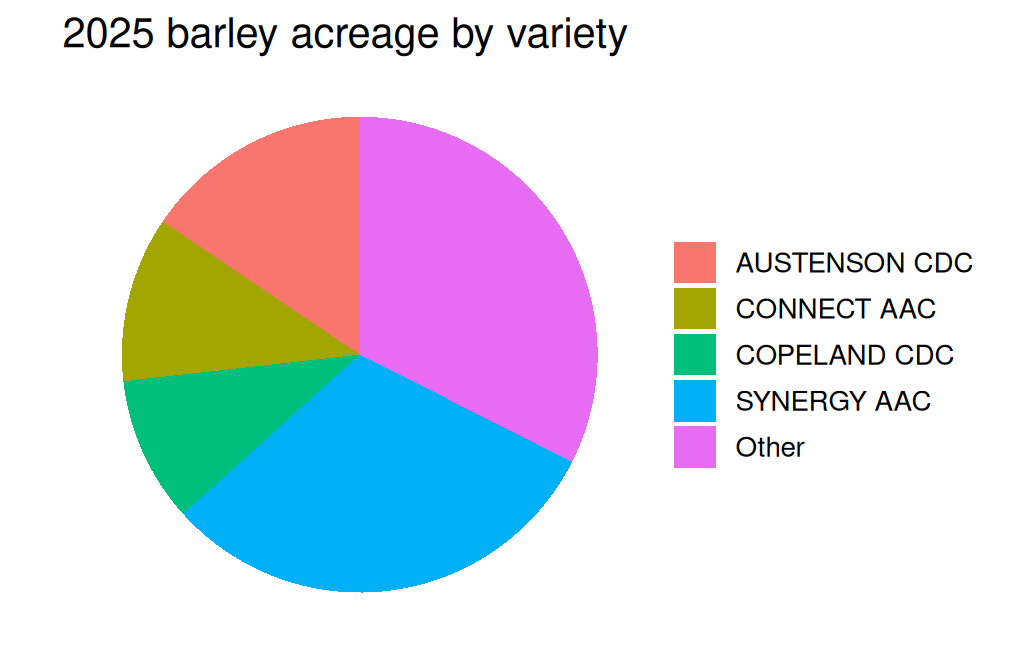
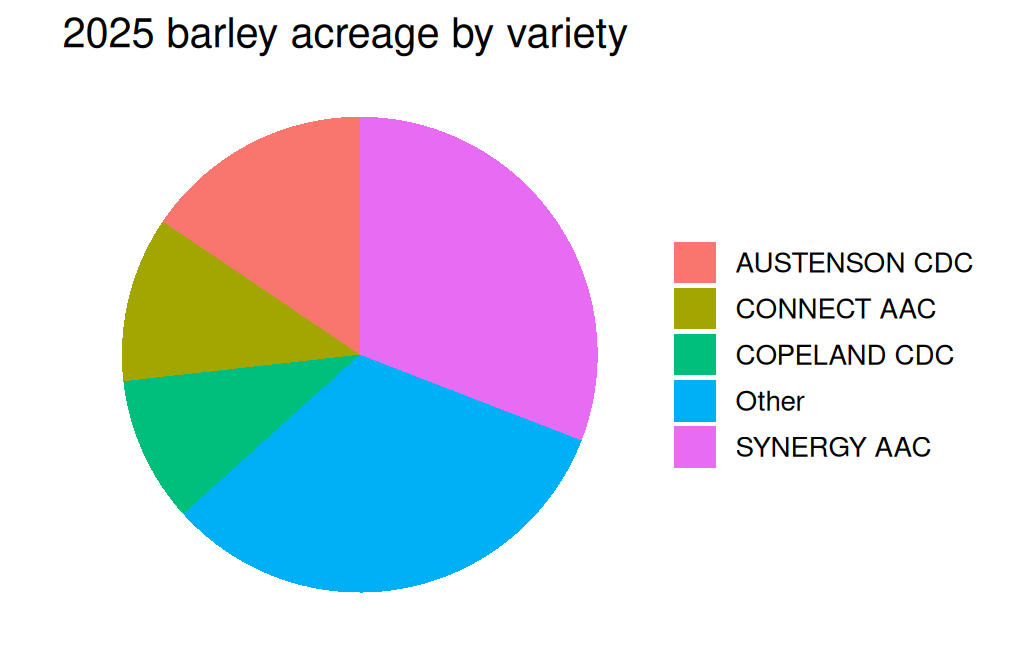
Built site for gh-pages

Changed region(s): [[0.7104, 0.5828, 0.8958, 0.7055], [0.4015, 0.5828, 0.556, 0.7055], [0.3707, 0.5521, 0.4015, 0.5828]]

diff --git a/module04c.html b/module04c.html
@@ -616,7 +616,7 @@ div.csl-indent {
 <li>Build a plot with <code>ggplot()</code>, <code>aes()</code> and a geom.</li>
 <li>Reproduce the Excel bar, pie and line charts in code.</li>
 <li>Filter and summarise the data that feeds a chart, instead of editing it on a sheet.</li>
-<li>Order bars with <code>fct_reorder()</code> and group small categories with <code>fct_lump_n()</code>.</li>
+<li>Order bars with <code>fct_reorder()</code> and group small categories into an “Other” category.</li>
 <li>Change a plot’s title, labels, colours and theme.</li>
 <li>Plot several series by mapping a variable to colour.</li>
 <li>Save a finished plot with <code>ggsave()</code>.</li>
@@ -764,18 +764,44 @@ Figure&nbsp;12.4: The finished bar chart.
 </section>
 <section id="sec-r-pie-example" class="level2" data-number="12.3">
 <h2 data-number="12.3" class="anchored" data-anchor-id="sec-r-pie-example"><span class="header-section-number">12.3</span> Pie charts</h2>
-<p>In Excel we built the pie from a five-row block: the four largest varieties plus an <code>Other</code> row computed with <code>SUM</code>. The R version of that grouping is <code>fct_lump_n()</code>, which keeps the largest <code>n</code> categories, weighted here by acres, and lumps everything else into <code>Other</code>:</p>
+<p>In Excel we built the pie from a five-row block: the four largest varieties plus an <code>Other</code> row computed with <code>SUM</code>. We can build the same five-row table with functions we already know. First the data step: <code>if_else()</code> renames every variety under 100,000 acres to <code>"Other"</code>, and <code>group_by()</code> with <code>summarise()</code> adds the small varieties up – the same job the <code>SUM</code> did in Excel.</p>
 <div class="cell">
-<div class="code-copy-outer-scaffold"><div class="sourceCode cell-code" id="cb7"><pre class="sourceCode r code-with-copy"><code class="sourceCode r"><span id="cb7-1"><a href="#cb7-1" aria-hidden="true" tabindex="-1"></a>barley_2025 <span class="sc">|&gt;</span></span>
-<span id="cb7-2"><a href="#cb7-2" aria-hidden="true" tabindex="-1"></a>  <span class="fu">mutate</span>(<span class="at">variety =</span> <span class="fu">fct_lump_n</span>(variety, <span class="dv">4</span>, <span class="at">w =</span> acres)) <span class="sc">|&gt;</span>   <span class="co"># top 4 + Other</span></span>
-<span id="cb7-3"><a href="#cb7-3" aria-hidden="true" tabindex="-1"></a>  <span class="fu">group_by</span>(variety) <span class="sc">|&gt;</span></span>
-<span id="cb7-4"><a href="#cb7-4" aria-hidden="true" tabindex="-1"></a>  <span class="fu">summarise</span>(<span class="at">acres =</span> <span class="fu">sum</span>(acres)) <span class="sc">|&gt;</span></span>
-<span id="cb7-5"><a href="#cb7-5" aria-hidden="true" tabindex="-1"></a>  <span class="fu">ggplot</span>(<span class="fu">aes</span>(<span class="at">x =</span> <span class="st">""</span>, <span class="at">y =</span> acres, <span class="at">fill =</span> variety)) <span class="sc">+</span></span>
-<span id="cb7-6"><a href="#cb7-6" aria-hidden="true" tabindex="-1"></a>  <span class="fu">geom_col</span>(<span class="at">width =</span> <span class="dv">1</span>) <span class="sc">+</span></span>
-<span id="cb7-7"><a href="#cb7-7" aria-hidden="true" tabindex="-1"></a>  <span class="fu">coord_polar</span>(<span class="at">theta =</span> <span class="st">"y"</span>) <span class="sc">+</span>                               <span class="co"># wrap the bar into a circle</span></span>
-<span id="cb7-8"><a href="#cb7-8" aria-hidden="true" tabindex="-1"></a>  <span class="fu">labs</span>(<span class="at">title =</span> <span class="st">"2025 barley acreage by variety"</span>,</span>
-<span id="cb7-9"><a href="#cb7-9" aria-hidden="true" tabindex="-1"></a>       <span class="at">x =</span> <span class="cn">NULL</span>, <span class="at">y =</span> <span class="cn">NULL</span>, <span class="at">fill =</span> <span class="cn">NULL</span>) <span class="sc">+</span></span>
-<span id="cb7-10"><a href="#cb7-10" aria-hidden="true" tabindex="-1"></a>  <span class="fu">theme_void</span>(<span class="at">base_size =</span> <span class="dv">13</span>)</span></code></pre></div><button title="Copy to Clipboard" class="code-copy-button"><i class="bi"></i></button></div>
+<div class="cell-output-display">
+<div class="code-copy-outer-scaffold"><div class="sourceCode" id="cb7"><pre class="sourceCode r code-with-copy"><code class="sourceCode r"><span id="cb7-1"><a href="#cb7-1" aria-hidden="true" tabindex="-1"></a><span class="co"># Group the small varieties into "Other", then total the acres</span></span>
+<span id="cb7-2"><a href="#cb7-2" aria-hidden="true" tabindex="-1"></a>pie_data <span class="ot">&lt;-</span> barley_2025 <span class="sc">|&gt;</span></span>
+<span id="cb7-3"><a href="#cb7-3" aria-hidden="true" tabindex="-1"></a>  <span class="fu">mutate</span>(<span class="at">variety =</span> <span class="fu">if_else</span>(acres <span class="sc">&gt;</span> <span class="dv">100000</span>, variety, <span class="st">"Other"</span>)) <span class="sc">|&gt;</span></span>
+<span id="cb7-4"><a href="#cb7-4" aria-hidden="true" tabindex="-1"></a>  <span class="fu">group_by</span>(variety) <span class="sc">|&gt;</span></span>
+<span id="cb7-5"><a href="#cb7-5" aria-hidden="true" tabindex="-1"></a>  <span class="fu">summarise</span>(<span class="at">acres =</span> <span class="fu">sum</span>(acres))</span>
+<span id="cb7-6"><a href="#cb7-6" aria-hidden="true" tabindex="-1"></a></span>
+<span id="cb7-7"><a href="#cb7-7" aria-hidden="true" tabindex="-1"></a>pie_data</span></code></pre></div><button title="Copy to Clipboard" class="code-copy-button"><i class="bi"></i></button></div>
+<div class="console-transcript">
+<pre><code>&gt; # Group the small varieties into "Other", then total the acres
+&gt; pie_data &lt;- barley_2025 |&gt;
++   mutate(variety = if_else(acres &gt; 100000, variety, "Other")) |&gt;
++   group_by(variety) |&gt;
++   summarise(acres = sum(acres))
+&gt; 
+&gt; pie_data
+# A tibble: 5 × 2
+  variety        acres
+  &lt;chr&gt;          &lt;dbl&gt;
+1 AUSTENSON CDC 197626
+2 CONNECT AAC   143023
+3 COPELAND CDC  125867
+4 Other         412760
+5 SYNERGY AAC   392684</code></pre>
+</div>
+</div>
+</div>
+<p>Five rows, exactly like the block the Excel pie was built from. Now the plotting step:</p>
+<div class="cell">
+<div class="code-copy-outer-scaffold"><div class="sourceCode cell-code" id="cb9"><pre class="sourceCode r code-with-copy"><code class="sourceCode r"><span id="cb9-1"><a href="#cb9-1" aria-hidden="true" tabindex="-1"></a>pie_data <span class="sc">|&gt;</span></span>
+<span id="cb9-2"><a href="#cb9-2" aria-hidden="true" tabindex="-1"></a>  <span class="fu">ggplot</span>(<span class="fu">aes</span>(<span class="at">x =</span> <span class="st">""</span>, <span class="at">y =</span> acres, <span class="at">fill =</span> variety)) <span class="sc">+</span></span>
+<span id="cb9-3"><a href="#cb9-3" aria-hidden="true" tabindex="-1"></a>  <span class="fu">geom_col</span>(<span class="at">width =</span> <span class="dv">1</span>) <span class="sc">+</span></span>
+<span id="cb9-4"><a href="#cb9-4" aria-hidden="true" tabindex="-1"></a>  <span class="fu">coord_polar</span>(<span class="at">theta =</span> <span class="st">"y"</span>) <span class="sc">+</span>      <span class="co"># wrap the bar into a circle</span></span>
+<span id="cb9-5"><a href="#cb9-5" aria-hidden="true" tabindex="-1"></a>  <span class="fu">labs</span>(<span class="at">title =</span> <span class="st">"2025 barley acreage by variety"</span>,</span>
+<span id="cb9-6"><a href="#cb9-6" aria-hidden="true" tabindex="-1"></a>       <span class="at">x =</span> <span class="cn">NULL</span>, <span class="at">y =</span> <span class="cn">NULL</span>, <span class="at">fill =</span> <span class="cn">NULL</span>) <span class="sc">+</span></span>
+<span id="cb9-7"><a href="#cb9-7" aria-hidden="true" tabindex="-1"></a>  <span class="fu">theme_void</span>(<span class="at">base_size =</span> <span class="dv">13</span>)</span></code></pre></div><button title="Copy to Clipboard" class="code-copy-button"><i class="bi"></i></button></div>
 <div class="cell-output-display">
 <div id="fig-r-pie" class="quarto-float quarto-figure quarto-figure-center anchored" alt="A pie chart with five slices; Other and Synergy AAC are the two largest at roughly 400,000 acres each.">
 <figure class="quarto-float quarto-float-fig figure">
@@ -789,30 +815,30 @@ Figure&nbsp;12.5: 2025 barley acreage: the four largest varieties and everything
 </div>
 </div>
 </div>
-<p>There is no <code>geom_pie()</code>. A pie in ggplot2 is a single stacked bar wrapped into a circle with <code>coord_polar()</code>, which is a fair description of what a pie chart is. The <code>Other</code> slice comes to 412,760 acres, slightly more than Synergy itself – the same total the Excel <code>SUM</code> produced, and a useful reminder that the 28 lumped varieties jointly matter as much as the largest one.</p>
+<p>There is no <code>geom_pie()</code>. A pie in ggplot2 is a single stacked bar wrapped into a circle with <code>coord_polar()</code>, which is a fair description of what a pie chart is. The <code>Other</code> slice comes to 412,760 acres, slightly more than Synergy itself – the same total the Excel <code>SUM</code> produced, and a useful reminder that the 28 grouped varieties jointly matter as much as the largest one.</p>
 </section>
 <section id="sec-r-line-example" class="level2" data-number="12.4">
 <h2 data-number="12.4" class="anchored" data-anchor-id="sec-r-line-example"><span class="header-section-number">12.4</span> Line charts</h2>
 <p>The line charts use the risk-zone file, which has one row per zone-variety-year; we again convert its column names to lowercase on the way in. A provincial line needs one value per year, so the pipe filters to the variety and sums acres within each year before plotting:</p>
 <div class="cell">
-<div class="code-copy-outer-scaffold"><div class="sourceCode cell-code" id="cb8"><pre class="sourceCode r code-with-copy"><code class="sourceCode r"><span id="cb8-1"><a href="#cb8-1" aria-hidden="true" tabindex="-1"></a><span class="co"># Risk-zone records for all crops, varieties and years</span></span>
-<span id="cb8-2"><a href="#cb8-2" aria-hidden="true" tabindex="-1"></a>variety_yields <span class="ot">&lt;-</span> <span class="fu">read_csv</span>(</span>
-<span id="cb8-3"><a href="#cb8-3" aria-hidden="true" tabindex="-1"></a>  <span class="st">"data/sask_variety_yields.csv"</span>,</span>
-<span id="cb8-4"><a href="#cb8-4" aria-hidden="true" tabindex="-1"></a>  <span class="at">show_col_types =</span> <span class="cn">FALSE</span></span>
-<span id="cb8-5"><a href="#cb8-5" aria-hidden="true" tabindex="-1"></a>) <span class="sc">|&gt;</span></span>
-<span id="cb8-6"><a href="#cb8-6" aria-hidden="true" tabindex="-1"></a>  <span class="fu">clean_names</span>()          <span class="co"># column names to lowercase</span></span>
-<span id="cb8-7"><a href="#cb8-7" aria-hidden="true" tabindex="-1"></a></span>
-<span id="cb8-8"><a href="#cb8-8" aria-hidden="true" tabindex="-1"></a>variety_yields <span class="sc">|&gt;</span></span>
-<span id="cb8-9"><a href="#cb8-9" aria-hidden="true" tabindex="-1"></a>  <span class="fu">filter</span>(crop <span class="sc">==</span> <span class="st">"Barley"</span>,</span>
-<span id="cb8-10"><a href="#cb8-10" aria-hidden="true" tabindex="-1"></a>         variety <span class="sc">==</span> <span class="st">"SYNERGY AAC"</span>) <span class="sc">|&gt;</span></span>
-<span id="cb8-11"><a href="#cb8-11" aria-hidden="true" tabindex="-1"></a>  <span class="fu">group_by</span>(year) <span class="sc">|&gt;</span></span>
-<span id="cb8-12"><a href="#cb8-12" aria-hidden="true" tabindex="-1"></a>  <span class="fu">summarise</span>(<span class="at">acres =</span> <span class="fu">sum</span>(acres, <span class="at">na.rm =</span> <span class="cn">TRUE</span>)) <span class="sc">|&gt;</span>   <span class="co"># provincial total per year</span></span>
-<span id="cb8-13"><a href="#cb8-13" aria-hidden="true" tabindex="-1"></a>  <span class="fu">ggplot</span>(<span class="fu">aes</span>(<span class="at">x =</span> year, <span class="at">y =</span> acres)) <span class="sc">+</span></span>
-<span id="cb8-14"><a href="#cb8-14" aria-hidden="true" tabindex="-1"></a>  <span class="fu">geom_line</span>(<span class="at">colour =</span> <span class="st">"#3F6F52"</span>, <span class="at">linewidth =</span> <span class="dv">1</span>) <span class="sc">+</span></span>
-<span id="cb8-15"><a href="#cb8-15" aria-hidden="true" tabindex="-1"></a>  <span class="fu">scale_y_continuous</span>(<span class="at">labels =</span> scales<span class="sc">::</span>comma, <span class="at">limits =</span> <span class="fu">c</span>(<span class="dv">0</span>, <span class="cn">NA</span>)) <span class="sc">+</span></span>
-<span id="cb8-16"><a href="#cb8-16" aria-hidden="true" tabindex="-1"></a>  <span class="fu">labs</span>(<span class="at">title =</span> <span class="st">"Acres planted with Synergy AAC barley"</span>,</span>
-<span id="cb8-17"><a href="#cb8-17" aria-hidden="true" tabindex="-1"></a>       <span class="at">x =</span> <span class="st">"Year"</span>, <span class="at">y =</span> <span class="st">"Total acres"</span>) <span class="sc">+</span></span>
-<span id="cb8-18"><a href="#cb8-18" aria-hidden="true" tabindex="-1"></a>  <span class="fu">theme_minimal</span>(<span class="at">base_size =</span> <span class="dv">13</span>)</span></code></pre></div><button title="Copy to Clipboard" class="code-copy-button"><i class="bi"></i></button></div>
+<div class="code-copy-outer-scaffold"><div class="sourceCode cell-code" id="cb10"><pre class="sourceCode r code-with-copy"><code class="sourceCode r"><span id="cb10-1"><a href="#cb10-1" aria-hidden="true" tabindex="-1"></a><span class="co"># Risk-zone records for all crops, varieties and years</span></span>
+<span id="cb10-2"><a href="#cb10-2" aria-hidden="true" tabindex="-1"></a>variety_yields <span class="ot">&lt;-</span> <span class="fu">read_csv</span>(</span>
+<span id="cb10-3"><a href="#cb10-3" aria-hidden="true" tabindex="-1"></a>  <span class="st">"data/sask_variety_yields.csv"</span>,</span>
+<span id="cb10-4"><a href="#cb10-4" aria-hidden="true" tabindex="-1"></a>  <span class="at">show_col_types =</span> <span class="cn">FALSE</span></span>
+<span id="cb10-5"><a href="#cb10-5" aria-hidden="true" tabindex="-1"></a>) <span class="sc">|&gt;</span></span>
+<span id="cb10-6"><a href="#cb10-6" aria-hidden="true" tabindex="-1"></a>  <span class="fu">clean_names</span>()          <span class="co"># column names to lowercase</span></span>
+<span id="cb10-7"><a href="#cb10-7" aria-hidden="true" tabindex="-1"></a></span>
+<span id="cb10-8"><a href="#cb10-8" aria-hidden="true" tabindex="-1"></a>variety_yields <span class="sc">|&gt;</span></span>
+<span id="cb10-9"><a href="#cb10-9" aria-hidden="true" tabindex="-1"></a>  <span class="fu">filter</span>(crop <span class="sc">==</span> <span class="st">"Barley"</span>,</span>
+<span id="cb10-10"><a href="#cb10-10" aria-hidden="true" tabindex="-1"></a>         variety <span class="sc">==</span> <span class="st">"SYNERGY AAC"</span>) <span class="sc">|&gt;</span></span>
+<span id="cb10-11"><a href="#cb10-11" aria-hidden="true" tabindex="-1"></a>  <span class="fu">group_by</span>(year) <span class="sc">|&gt;</span></span>
+<span id="cb10-12"><a href="#cb10-12" aria-hidden="true" tabindex="-1"></a>  <span class="fu">summarise</span>(<span class="at">acres =</span> <span class="fu">sum</span>(acres, <span class="at">na.rm =</span> <span class="cn">TRUE</span>)) <span class="sc">|&gt;</span>   <span class="co"># provincial total per year</span></span>
+<span id="cb10-13"><a href="#cb10-13" aria-hidden="true" tabindex="-1"></a>  <span class="fu">ggplot</span>(<span class="fu">aes</span>(<span class="at">x =</span> year, <span class="at">y =</span> acres)) <span class="sc">+</span></span>
+<span id="cb10-14"><a href="#cb10-14" aria-hidden="true" tabindex="-1"></a>  <span class="fu">geom_line</span>(<span class="at">colour =</span> <span class="st">"#3F6F52"</span>, <span class="at">linewidth =</span> <span class="dv">1</span>) <span class="sc">+</span></span>
+<span id="cb10-15"><a href="#cb10-15" aria-hidden="true" tabindex="-1"></a>  <span class="fu">scale_y_continuous</span>(<span class="at">labels =</span> scales<span class="sc">::</span>comma, <span class="at">limits =</span> <span class="fu">c</span>(<span class="dv">0</span>, <span class="cn">NA</span>)) <span class="sc">+</span></span>
+<span id="cb10-16"><a href="#cb10-16" aria-hidden="true" tabindex="-1"></a>  <span class="fu">labs</span>(<span class="at">title =</span> <span class="st">"Acres planted with Synergy AAC barley"</span>,</span>
+<span id="cb10-17"><a href="#cb10-17" aria-hidden="true" tabindex="-1"></a>       <span class="at">x =</span> <span class="st">"Year"</span>, <span class="at">y =</span> <span class="st">"Total acres"</span>) <span class="sc">+</span></span>
+<span id="cb10-18"><a href="#cb10-18" aria-hidden="true" tabindex="-1"></a>  <span class="fu">theme_minimal</span>(<span class="at">base_size =</span> <span class="dv">13</span>)</span></code></pre></div><button title="Copy to Clipboard" class="code-copy-button"><i class="bi"></i></button></div>
 <div class="cell-output-display">
 <div id="fig-r-line-synergy" class="quarto-float quarto-figure quarto-figure-center anchored" alt="A line from 408,000 acres in 2021 dipping to 317,000 in 2022 and recovering to about 393,000 by 2025.">
 <figure class="quarto-float quarto-float-fig figure">
@@ -829,17 +855,17 @@ Figure&nbsp;12.6: Acres planted with Synergy barley.
 <p>In Excel the first attempt drew <code>year</code> as a second data series, and fixing it meant a trip through <strong>Select Data</strong>. That mistake cannot happen here, because <code>aes(x = year, y = acres)</code> states which variable is which axis.</p>
 <p>To plot two varieties, Excel needed a column per variety and a new series added by hand. In R the data stays long: keep both varieties in the filter and map <code>variety</code> to colour, and one line is drawn per variety with a legend:</p>
 <div class="cell">
-<div class="code-copy-outer-scaffold"><div class="sourceCode cell-code" id="cb9"><pre class="sourceCode r code-with-copy"><code class="sourceCode r"><span id="cb9-1"><a href="#cb9-1" aria-hidden="true" tabindex="-1"></a>variety_yields <span class="sc">|&gt;</span></span>
-<span id="cb9-2"><a href="#cb9-2" aria-hidden="true" tabindex="-1"></a>  <span class="fu">filter</span>(crop <span class="sc">==</span> <span class="st">"Barley"</span>,</span>
-<span id="cb9-3"><a href="#cb9-3" aria-hidden="true" tabindex="-1"></a>         variety <span class="sc">%in%</span> <span class="fu">c</span>(<span class="st">"SYNERGY AAC"</span>, <span class="st">"COPELAND CDC"</span>)) <span class="sc">|&gt;</span></span>
-<span id="cb9-4"><a href="#cb9-4" aria-hidden="true" tabindex="-1"></a>  <span class="fu">group_by</span>(variety, year) <span class="sc">|&gt;</span></span>
-<span id="cb9-5"><a href="#cb9-5" aria-hidden="true" tabindex="-1"></a>  <span class="fu">summarise</span>(<span class="at">acres =</span> <span class="fu">sum</span>(acres, <span class="at">na.rm =</span> <span class="cn">TRUE</span>), <span class="at">.groups =</span> <span class="st">"drop"</span>) <span class="sc">|&gt;</span></span>
-<span id="cb9-6"><a href="#cb9-6" aria-hidden="true" tabindex="-1"></a>  <span class="fu">ggplot</span>(<span class="fu">aes</span>(<span class="at">x =</span> year, <span class="at">y =</span> acres, <span class="at">colour =</span> variety)) <span class="sc">+</span>   <span class="co"># one line per variety</span></span>
-<span id="cb9-7"><a href="#cb9-7" aria-hidden="true" tabindex="-1"></a>  <span class="fu">geom_line</span>(<span class="at">linewidth =</span> <span class="dv">1</span>) <span class="sc">+</span></span>
-<span id="cb9-8"><a href="#cb9-8" aria-hidden="true" tabindex="-1"></a>  <span class="fu">scale_y_continuous</span>(<span class="at">labels =</span> scales<span class="sc">::</span>comma, <span class="at">limits =</span> <span class="fu">c</span>(<span class="dv">0</span>, <span class="cn">NA</span>)) <span class="sc">+</span></span>
-<span id="cb9-9"><a href="#cb9-9" aria-hidden="true" tabindex="-1"></a>  <span class="fu">labs</span>(<span class="at">title =</span> <span class="st">"Copeland's acreage has fallen by three-quarters; Synergy's has held"</span>,</span>
-<span id="cb9-10"><a href="#cb9-10" aria-hidden="true" tabindex="-1"></a>       <span class="at">x =</span> <span class="st">"Year"</span>, <span class="at">y =</span> <span class="st">"Total acres"</span>, <span class="at">colour =</span> <span class="cn">NULL</span>) <span class="sc">+</span></span>
-<span id="cb9-11"><a href="#cb9-11" aria-hidden="true" tabindex="-1"></a>  <span class="fu">theme_minimal</span>(<span class="at">base_size =</span> <span class="dv">13</span>)</span></code></pre></div><button title="Copy to Clipboard" class="code-copy-button"><i class="bi"></i></button></div>
+<div class="code-copy-outer-scaffold"><div class="sourceCode cell-code" id="cb11"><pre class="sourceCode r code-with-copy"><code class="sourceCode r"><span id="cb11-1"><a href="#cb11-1" aria-hidden="true" tabindex="-1"></a>variety_yields <span class="sc">|&gt;</span></span>
+<span id="cb11-2"><a href="#cb11-2" aria-hidden="true" tabindex="-1"></a>  <span class="fu">filter</span>(crop <span class="sc">==</span> <span class="st">"Barley"</span>,</span>
+<span id="cb11-3"><a href="#cb11-3" aria-hidden="true" tabindex="-1"></a>         variety <span class="sc">%in%</span> <span class="fu">c</span>(<span class="st">"SYNERGY AAC"</span>, <span class="st">"COPELAND CDC"</span>)) <span class="sc">|&gt;</span></span>
+<span id="cb11-4"><a href="#cb11-4" aria-hidden="true" tabindex="-1"></a>  <span class="fu">group_by</span>(variety, year) <span class="sc">|&gt;</span></span>
+<span id="cb11-5"><a href="#cb11-5" aria-hidden="true" tabindex="-1"></a>  <span class="fu">summarise</span>(<span class="at">acres =</span> <span class="fu">sum</span>(acres, <span class="at">na.rm =</span> <span class="cn">TRUE</span>), <span class="at">.groups =</span> <span class="st">"drop"</span>) <span class="sc">|&gt;</span></span>
+<span id="cb11-6"><a href="#cb11-6" aria-hidden="true" tabindex="-1"></a>  <span class="fu">ggplot</span>(<span class="fu">aes</span>(<span class="at">x =</span> year, <span class="at">y =</span> acres, <span class="at">colour =</span> variety)) <span class="sc">+</span>   <span class="co"># one line per variety</span></span>
+<span id="cb11-7"><a href="#cb11-7" aria-hidden="true" tabindex="-1"></a>  <span class="fu">geom_line</span>(<span class="at">linewidth =</span> <span class="dv">1</span>) <span class="sc">+</span></span>
+<span id="cb11-8"><a href="#cb11-8" aria-hidden="true" tabindex="-1"></a>  <span class="fu">scale_y_continuous</span>(<span class="at">labels =</span> scales<span class="sc">::</span>comma, <span class="at">limits =</span> <span class="fu">c</span>(<span class="dv">0</span>, <span class="cn">NA</span>)) <span class="sc">+</span></span>
+<span id="cb11-9"><a href="#cb11-9" aria-hidden="true" tabindex="-1"></a>  <span class="fu">labs</span>(<span class="at">title =</span> <span class="st">"Copeland's acreage has fallen by three-quarters; Synergy's has held"</span>,</span>
+<span id="cb11-10"><a href="#cb11-10" aria-hidden="true" tabindex="-1"></a>       <span class="at">x =</span> <span class="st">"Year"</span>, <span class="at">y =</span> <span class="st">"Total acres"</span>, <span class="at">colour =</span> <span class="cn">NULL</span>) <span class="sc">+</span></span>
+<span id="cb11-11"><a href="#cb11-11" aria-hidden="true" tabindex="-1"></a>  <span class="fu">theme_minimal</span>(<span class="at">base_size =</span> <span class="dv">13</span>)</span></code></pre></div><button title="Copy to Clipboard" class="code-copy-button"><i class="bi"></i></button></div>
 <div class="cell-output-display">
 <div id="fig-r-line-two" class="quarto-float quarto-figure quarto-figure-center anchored" alt="Two lines: Copeland falls from 475,000 acres in 2021 to 126,000 in 2025 while Synergy stays near 400,000.">
 <figure class="quarto-float quarto-float-fig figure">
@@ -853,26 +879,78 @@ Figure&nbsp;12.7: Synergy has held its acreage; Copeland has lost most of its ow
 </div>
 </div>
 </div>
-<p>The Excel chapter’s answer to “what about all the varieties?” was a PivotChart, with the small varieties filtered out or grouped. The R answer is the same <code>fct_lump_n()</code> used for the pie: summarise acres by variety and year, keep the seven biggest varieties, and lump the rest into <code>Other</code>:</p>
+<p>The Excel chapter’s answer to “what about all the varieties?” was a PivotChart, with the small varieties filtered out or grouped. We can do the same grouping here, in a data step and a plotting step. The data step builds the variety-year totals, works out which varieties have more than 150,000 acres over the five years – the same threshold we used in the PivotChart filter – and renames the rest to <code>"Other"</code>:</p>
 <div class="cell">
-<div class="code-copy-outer-scaffold"><div class="sourceCode cell-code" id="cb10"><pre class="sourceCode r code-with-copy"><code class="sourceCode r"><span id="cb10-1"><a href="#cb10-1" aria-hidden="true" tabindex="-1"></a>variety_yields <span class="sc">|&gt;</span></span>
-<span id="cb10-2"><a href="#cb10-2" aria-hidden="true" tabindex="-1"></a>  <span class="fu">filter</span>(crop <span class="sc">==</span> <span class="st">"Barley"</span>) <span class="sc">|&gt;</span></span>
-<span id="cb10-3"><a href="#cb10-3" aria-hidden="true" tabindex="-1"></a>  <span class="fu">group_by</span>(variety, year) <span class="sc">|&gt;</span></span>
-<span id="cb10-4"><a href="#cb10-4" aria-hidden="true" tabindex="-1"></a>  <span class="fu">summarise</span>(<span class="at">acres =</span> <span class="fu">sum</span>(acres, <span class="at">na.rm =</span> <span class="cn">TRUE</span>), <span class="at">.groups =</span> <span class="st">"drop"</span>) <span class="sc">|&gt;</span></span>
-<span id="cb10-5"><a href="#cb10-5" aria-hidden="true" tabindex="-1"></a>  <span class="fu">mutate</span>(<span class="at">variety =</span> <span class="fu">fct_lump_n</span>(variety, <span class="dv">7</span>, <span class="at">w =</span> acres)) <span class="sc">|&gt;</span>   <span class="co"># 7 biggest + Other</span></span>
-<span id="cb10-6"><a href="#cb10-6" aria-hidden="true" tabindex="-1"></a>  <span class="fu">group_by</span>(variety, year) <span class="sc">|&gt;</span></span>
-<span id="cb10-7"><a href="#cb10-7" aria-hidden="true" tabindex="-1"></a>  <span class="fu">summarise</span>(<span class="at">acres =</span> <span class="fu">sum</span>(acres), <span class="at">.groups =</span> <span class="st">"drop"</span>) <span class="sc">|&gt;</span></span>
-<span id="cb10-8"><a href="#cb10-8" aria-hidden="true" tabindex="-1"></a>  <span class="fu">ggplot</span>(<span class="fu">aes</span>(<span class="at">x =</span> year, <span class="at">y =</span> acres, <span class="at">colour =</span> variety)) <span class="sc">+</span></span>
-<span id="cb10-9"><a href="#cb10-9" aria-hidden="true" tabindex="-1"></a>  <span class="fu">geom_line</span>(<span class="at">linewidth =</span> <span class="fl">0.9</span>) <span class="sc">+</span></span>
-<span id="cb10-10"><a href="#cb10-10" aria-hidden="true" tabindex="-1"></a>  <span class="fu">scale_y_continuous</span>(<span class="at">labels =</span> scales<span class="sc">::</span>comma, <span class="at">limits =</span> <span class="fu">c</span>(<span class="dv">0</span>, <span class="cn">NA</span>)) <span class="sc">+</span></span>
-<span id="cb10-11"><a href="#cb10-11" aria-hidden="true" tabindex="-1"></a>  <span class="fu">labs</span>(<span class="at">title =</span> <span class="st">"Acres of barley varieties in Saskatchewan"</span>,</span>
-<span id="cb10-12"><a href="#cb10-12" aria-hidden="true" tabindex="-1"></a>       <span class="at">x =</span> <span class="st">"Year"</span>, <span class="at">y =</span> <span class="st">"Total acres"</span>, <span class="at">colour =</span> <span class="cn">NULL</span>) <span class="sc">+</span></span>
-<span id="cb10-13"><a href="#cb10-13" aria-hidden="true" tabindex="-1"></a>  <span class="fu">theme_minimal</span>(<span class="at">base_size =</span> <span class="dv">13</span>)</span></code></pre></div><button title="Copy to Clipboard" class="code-copy-button"><i class="bi"></i></button></div>
 <div class="cell-output-display">
-<div id="fig-r-line-many" class="quarto-float quarto-figure quarto-figure-center anchored" alt="Eight lines showing Copeland declining, Synergy and Austenson roughly steady, and an Other line near 300,000 acres.">
+<div class="code-copy-outer-scaffold"><div class="sourceCode" id="cb12"><pre class="sourceCode r code-with-copy"><code class="sourceCode r"><span id="cb12-1"><a href="#cb12-1" aria-hidden="true" tabindex="-1"></a><span class="co"># Total acres for each variety and year</span></span>
+<span id="cb12-2"><a href="#cb12-2" aria-hidden="true" tabindex="-1"></a>barley_by_year <span class="ot">&lt;-</span> variety_yields <span class="sc">|&gt;</span></span>
+<span id="cb12-3"><a href="#cb12-3" aria-hidden="true" tabindex="-1"></a>  <span class="fu">filter</span>(crop <span class="sc">==</span> <span class="st">"Barley"</span>) <span class="sc">|&gt;</span></span>
+<span id="cb12-4"><a href="#cb12-4" aria-hidden="true" tabindex="-1"></a>  <span class="fu">group_by</span>(variety, year) <span class="sc">|&gt;</span></span>
+<span id="cb12-5"><a href="#cb12-5" aria-hidden="true" tabindex="-1"></a>  <span class="fu">summarise</span>(<span class="at">acres =</span> <span class="fu">sum</span>(acres, <span class="at">na.rm =</span> <span class="cn">TRUE</span>), <span class="at">.groups =</span> <span class="st">"drop"</span>)</span>
+<span id="cb12-6"><a href="#cb12-6" aria-hidden="true" tabindex="-1"></a></span>
+<span id="cb12-7"><a href="#cb12-7" aria-hidden="true" tabindex="-1"></a><span class="co"># Which varieties have more than 150,000 acres over the five years?</span></span>
+<span id="cb12-8"><a href="#cb12-8" aria-hidden="true" tabindex="-1"></a>big_varieties <span class="ot">&lt;-</span> barley_by_year <span class="sc">|&gt;</span></span>
+<span id="cb12-9"><a href="#cb12-9" aria-hidden="true" tabindex="-1"></a>  <span class="fu">group_by</span>(variety) <span class="sc">|&gt;</span></span>
+<span id="cb12-10"><a href="#cb12-10" aria-hidden="true" tabindex="-1"></a>  <span class="fu">summarise</span>(<span class="at">total_acres =</span> <span class="fu">sum</span>(acres)) <span class="sc">|&gt;</span></span>
+<span id="cb12-11"><a href="#cb12-11" aria-hidden="true" tabindex="-1"></a>  <span class="fu">filter</span>(total_acres <span class="sc">&gt;</span> <span class="dv">150000</span>)</span>
+<span id="cb12-12"><a href="#cb12-12" aria-hidden="true" tabindex="-1"></a></span>
+<span id="cb12-13"><a href="#cb12-13" aria-hidden="true" tabindex="-1"></a>big_varieties</span>
+<span id="cb12-14"><a href="#cb12-14" aria-hidden="true" tabindex="-1"></a></span>
+<span id="cb12-15"><a href="#cb12-15" aria-hidden="true" tabindex="-1"></a><span class="co"># Group everything else into "Other" and re-total</span></span>
+<span id="cb12-16"><a href="#cb12-16" aria-hidden="true" tabindex="-1"></a>main_varieties <span class="ot">&lt;-</span> barley_by_year <span class="sc">|&gt;</span></span>
+<span id="cb12-17"><a href="#cb12-17" aria-hidden="true" tabindex="-1"></a>  <span class="fu">mutate</span>(<span class="at">variety =</span> <span class="fu">if_else</span>(variety <span class="sc">%in%</span> big_varieties<span class="sc">$</span>variety,</span>
+<span id="cb12-18"><a href="#cb12-18" aria-hidden="true" tabindex="-1"></a>                           variety, <span class="st">"Other"</span>)) <span class="sc">|&gt;</span></span>
+<span id="cb12-19"><a href="#cb12-19" aria-hidden="true" tabindex="-1"></a>  <span class="fu">group_by</span>(variety, year) <span class="sc">|&gt;</span></span>
+<span id="cb12-20"><a href="#cb12-20" aria-hidden="true" tabindex="-1"></a>  <span class="fu">summarise</span>(<span class="at">acres =</span> <span class="fu">sum</span>(acres), <span class="at">.groups =</span> <span class="st">"drop"</span>)</span></code></pre></div><button title="Copy to Clipboard" class="code-copy-button"><i class="bi"></i></button></div>
+<div class="console-transcript">
+<pre><code>&gt; # Total acres for each variety and year
+&gt; barley_by_year &lt;- variety_yields |&gt;
++   filter(crop == "Barley") |&gt;
++   group_by(variety, year) |&gt;
++   summarise(acres = sum(acres, na.rm = TRUE), .groups = "drop")
+&gt; 
+&gt; # Which varieties have more than 150,000 acres over the five years?
+&gt; big_varieties &lt;- barley_by_year |&gt;
++   group_by(variety) |&gt;
++   summarise(total_acres = sum(acres)) |&gt;
++   filter(total_acres &gt; 150000)
+&gt; 
+&gt; big_varieties
+# A tibble: 8 × 2
+  variety       total_acres
+  &lt;chr&gt;               &lt;dbl&gt;
+1 AUSTENSON CDC     1513916
+2 CHURCHILL CDC      156341
+3 CLAYMORE           208024
+4 CONNECT AAC        621765
+5 COPELAND CDC      1411073
+6 FRASER CDC         377996
+7 MAVERICK CDC       260246
+8 SYNERGY AAC       1945350
+&gt; 
+&gt; # Group everything else into "Other" and re-total
+&gt; main_varieties &lt;- barley_by_year |&gt;
++   mutate(variety = if_else(variety %in% big_varieties$variety,
++                            variety, "Other")) |&gt;
++   group_by(variety, year) |&gt;
++   summarise(acres = sum(acres), .groups = "drop")</code></pre>
+</div>
+</div>
+</div>
+<p>Then the plotting step is the same line chart as before, with <code>variety</code> mapped to colour:</p>
+<div class="cell">
+<div class="code-copy-outer-scaffold"><div class="sourceCode cell-code" id="cb14"><pre class="sourceCode r code-with-copy"><code class="sourceCode r"><span id="cb14-1"><a href="#cb14-1" aria-hidden="true" tabindex="-1"></a>main_varieties <span class="sc">|&gt;</span></span>
+<span id="cb14-2"><a href="#cb14-2" aria-hidden="true" tabindex="-1"></a>  <span class="fu">ggplot</span>(<span class="fu">aes</span>(<span class="at">x =</span> year, <span class="at">y =</span> acres, <span class="at">colour =</span> variety)) <span class="sc">+</span></span>
+<span id="cb14-3"><a href="#cb14-3" aria-hidden="true" tabindex="-1"></a>  <span class="fu">geom_line</span>(<span class="at">linewidth =</span> <span class="fl">0.9</span>) <span class="sc">+</span></span>
+<span id="cb14-4"><a href="#cb14-4" aria-hidden="true" tabindex="-1"></a>  <span class="fu">scale_y_continuous</span>(<span class="at">labels =</span> scales<span class="sc">::</span>comma, <span class="at">limits =</span> <span class="fu">c</span>(<span class="dv">0</span>, <span class="cn">NA</span>)) <span class="sc">+</span></span>
+<span id="cb14-5"><a href="#cb14-5" aria-hidden="true" tabindex="-1"></a>  <span class="fu">labs</span>(<span class="at">title =</span> <span class="st">"Acres of barley varieties in Saskatchewan"</span>,</span>
+<span id="cb14-6"><a href="#cb14-6" aria-hidden="true" tabindex="-1"></a>       <span class="at">x =</span> <span class="st">"Year"</span>, <span class="at">y =</span> <span class="st">"Total acres"</span>, <span class="at">colour =</span> <span class="cn">NULL</span>) <span class="sc">+</span></span>
+<span id="cb14-7"><a href="#cb14-7" aria-hidden="true" tabindex="-1"></a>  <span class="fu">theme_minimal</span>(<span class="at">base_size =</span> <span class="dv">13</span>)</span></code></pre></div><button title="Copy to Clipboard" class="code-copy-button"><i class="bi"></i></button></div>
+<div class="cell-output-display">
+<div id="fig-r-line-many" class="quarto-float quarto-figure quarto-figure-center anchored" alt="Nine lines showing Copeland declining, Synergy and Austenson roughly steady, and an Other line near 300,000 acres.">
 <figure class="quarto-float quarto-float-fig figure">
 <div aria-describedby="fig-r-line-many-caption-0ceaefa1-69ba-4598-a22c-09a6ac19f8ca">
-<a href="module04c_files/figure-html/fig-r-line-many-1.png" class="lightbox" data-gallery="quarto-lightbox-gallery-8" title="Figure&nbsp;12.8: Acres of the main barley varieties, 2021 to 2025."><img src="module04c_files/figure-html/fig-r-line-many-1.png" class="img-fluid figure-img" alt="Eight lines showing Copeland declining, Synergy and Austenson roughly steady, and an Other line near 300,000 acres." width="633"></a>
+<a href="module04c_files/figure-html/fig-r-line-many-1.png" class="lightbox" data-gallery="quarto-lightbox-gallery-8" title="Figure&nbsp;12.8: Acres of the main barley varieties, 2021 to 2025."><img src="module04c_files/figure-html/fig-r-line-many-1.png" class="img-fluid figure-img" alt="Nine lines showing Copeland declining, Synergy and Austenson roughly steady, and an Other line near 300,000 acres." width="633"></a>
 </div>
 <figcaption class="quarto-float-caption-bottom quarto-float-caption quarto-float-fig" id="fig-r-line-many-caption-0ceaefa1-69ba-4598-a22c-09a6ac19f8ca">
 Figure&nbsp;12.8: Acres of the main barley varieties, 2021 to 2025.
@@ -881,27 +959,27 @@ Figure&nbsp;12.8: Acres of the main barley varieties, 2021 to 2025.
 </div>
 </div>
 </div>
-<p>Eight lines is about the limit for one chart, and with lines this distinct the legend works; <a href="module04a.html" class="quarto-xref"><span>Chapter 10</span></a> covers direct labels and other ways to keep a many-line chart readable.</p>
+<p>Nine lines is about the limit for one chart, and with lines this distinct the legend works; <a href="module04a.html" class="quarto-xref"><span>Chapter 10</span></a> covers direct labels and other ways to keep a many-line chart readable.</p>
 </section>
 <section id="sec-saving-plots" class="level2" data-number="12.5">
 <h2 data-number="12.5" class="anchored" data-anchor-id="sec-saving-plots"><span class="header-section-number">12.5</span> Save the finished chart</h2>
 <p>Assigning a plot to a name makes the object passed to <code>ggsave()</code> explicit. Width and height are in inches unless another unit is supplied.</p>
 <div class="cell">
 <div class="cell-output-display">
-<div class="code-copy-outer-scaffold"><div class="sourceCode" id="cb11"><pre class="sourceCode r code-with-copy"><code class="sourceCode r"><span id="cb11-1"><a href="#cb11-1" aria-hidden="true" tabindex="-1"></a><span class="co"># Create the output folder if needed</span></span>
-<span id="cb11-2"><a href="#cb11-2" aria-hidden="true" tabindex="-1"></a><span class="fu">dir.create</span>(<span class="st">"output"</span>, <span class="at">showWarnings =</span> <span class="cn">FALSE</span>)</span>
-<span id="cb11-3"><a href="#cb11-3" aria-hidden="true" tabindex="-1"></a></span>
-<span id="cb11-4"><a href="#cb11-4" aria-hidden="true" tabindex="-1"></a><span class="co"># Save the finished bar chart</span></span>
-<span id="cb11-5"><a href="#cb11-5" aria-hidden="true" tabindex="-1"></a><span class="fu">ggsave</span>(</span>
-<span id="cb11-6"><a href="#cb11-6" aria-hidden="true" tabindex="-1"></a>  <span class="st">"output/barley_variety_bar.png"</span>,</span>
-<span id="cb11-7"><a href="#cb11-7" aria-hidden="true" tabindex="-1"></a>  <span class="at">plot =</span> bar_plot,</span>
-<span id="cb11-8"><a href="#cb11-8" aria-hidden="true" tabindex="-1"></a>  <span class="at">width =</span> <span class="fl">6.4</span>,</span>
-<span id="cb11-9"><a href="#cb11-9" aria-hidden="true" tabindex="-1"></a>  <span class="at">height =</span> <span class="fl">4.0</span>,</span>
-<span id="cb11-10"><a href="#cb11-10" aria-hidden="true" tabindex="-1"></a>  <span class="at">dpi =</span> <span class="dv">300</span></span>
-<span id="cb11-11"><a href="#cb11-11" aria-hidden="true" tabindex="-1"></a>)</span>
-<span id="cb11-12"><a href="#cb11-12" aria-hidden="true" tabindex="-1"></a></span>
-<span id="cb11-13"><a href="#cb11-13" aria-hidden="true" tabindex="-1"></a><span class="co"># Confirm that the file was written</span></span>
-<span id="cb11-14"><a href="#cb11-14" aria-hidden="true" tabindex="-1"></a><span class="fu">file.info</span>(<span class="st">"output/barley_variety_bar.png"</span>)[<span class="st">"size"</span>]</span></code></pre></div><button title="Copy to Clipboard" class="code-copy-button"><i class="bi"></i></button></div>
+<div class="code-copy-outer-scaffold"><div class="sourceCode" id="cb15"><pre class="sourceCode r code-with-copy"><code class="sourceCode r"><span id="cb15-1"><a href="#cb15-1" aria-hidden="true" tabindex="-1"></a><span class="co"># Create the output folder if needed</span></span>
+<span id="cb15-2"><a href="#cb15-2" aria-hidden="true" tabindex="-1"></a><span class="fu">dir.create</span>(<span class="st">"output"</span>, <span class="at">showWarnings =</span> <span class="cn">FALSE</span>)</span>
+<span id="cb15-3"><a href="#cb15-3" aria-hidden="true" tabindex="-1"></a></span>
+<span id="cb15-4"><a href="#cb15-4" aria-hidden="true" tabindex="-1"></a><span class="co"># Save the finished bar chart</span></span>
+<span id="cb15-5"><a href="#cb15-5" aria-hidden="true" tabindex="-1"></a><span class="fu">ggsave</span>(</span>
+<span id="cb15-6"><a href="#cb15-6" aria-hidden="true" tabindex="-1"></a>  <span class="st">"output/barley_variety_bar.png"</span>,</span>
+<span id="cb15-7"><a href="#cb15-7" aria-hidden="true" tabindex="-1"></a>  <span class="at">plot =</span> bar_plot,</span>
+<span id="cb15-8"><a href="#cb15-8" aria-hidden="true" tabindex="-1"></a>  <span class="at">width =</span> <span class="fl">6.4</span>,</span>
+<span id="cb15-9"><a href="#cb15-9" aria-hidden="true" tabindex="-1"></a>  <span class="at">height =</span> <span class="fl">4.0</span>,</span>
+<span id="cb15-10"><a href="#cb15-10" aria-hidden="true" tabindex="-1"></a>  <span class="at">dpi =</span> <span class="dv">300</span></span>
+<span id="cb15-11"><a href="#cb15-11" aria-hidden="true" tabindex="-1"></a>)</span>
+<span id="cb15-12"><a href="#cb15-12" aria-hidden="true" tabindex="-1"></a></span>
+<span id="cb15-13"><a href="#cb15-13" aria-hidden="true" tabindex="-1"></a><span class="co"># Confirm that the file was written</span></span>
+<span id="cb15-14"><a href="#cb15-14" aria-hidden="true" tabindex="-1"></a><span class="fu">file.info</span>(<span class="st">"output/barley_variety_bar.png"</span>)[<span class="st">"size"</span>]</span></code></pre></div><button title="Copy to Clipboard" class="code-copy-button"><i class="bi"></i></button></div>
 <div class="console-transcript">
 <pre><code>&gt; # Create the output folder if needed
 &gt; dir.create("output", showWarnings = FALSE)
